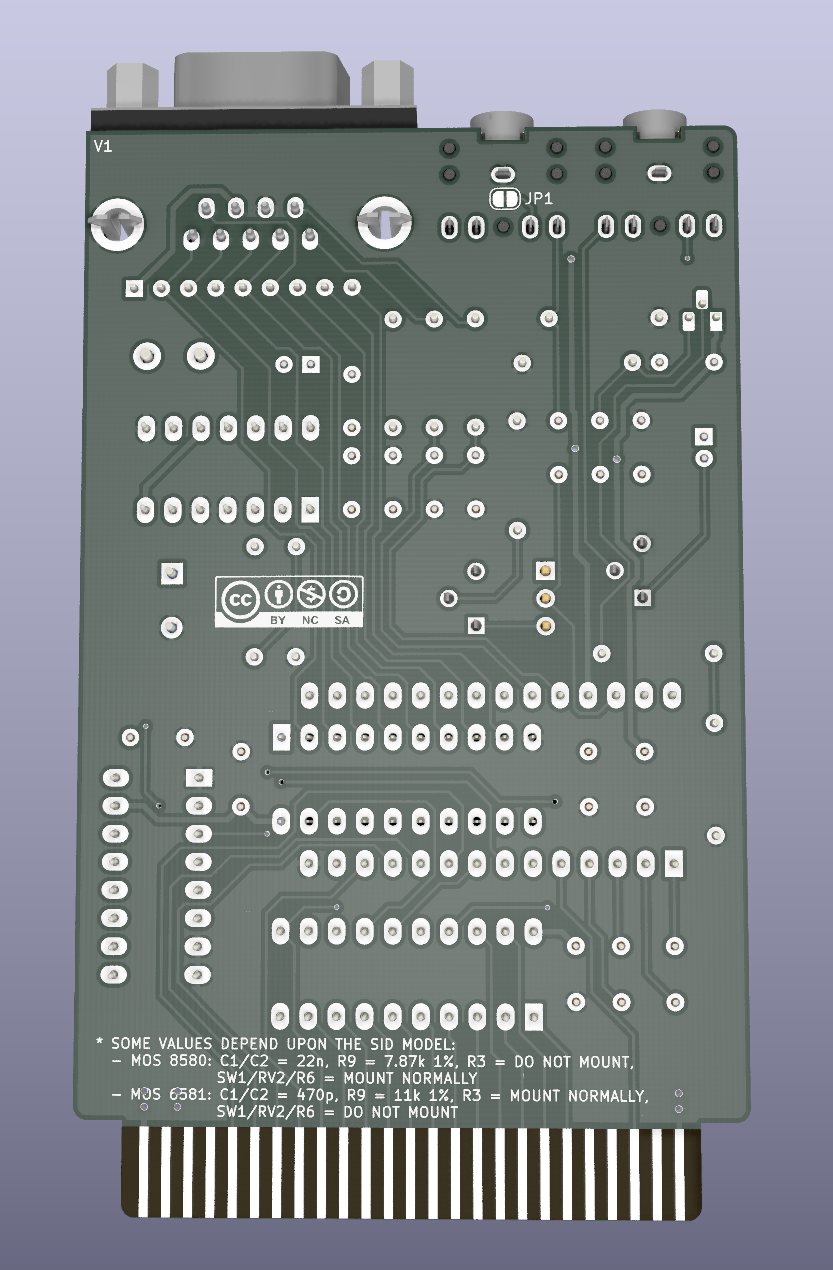
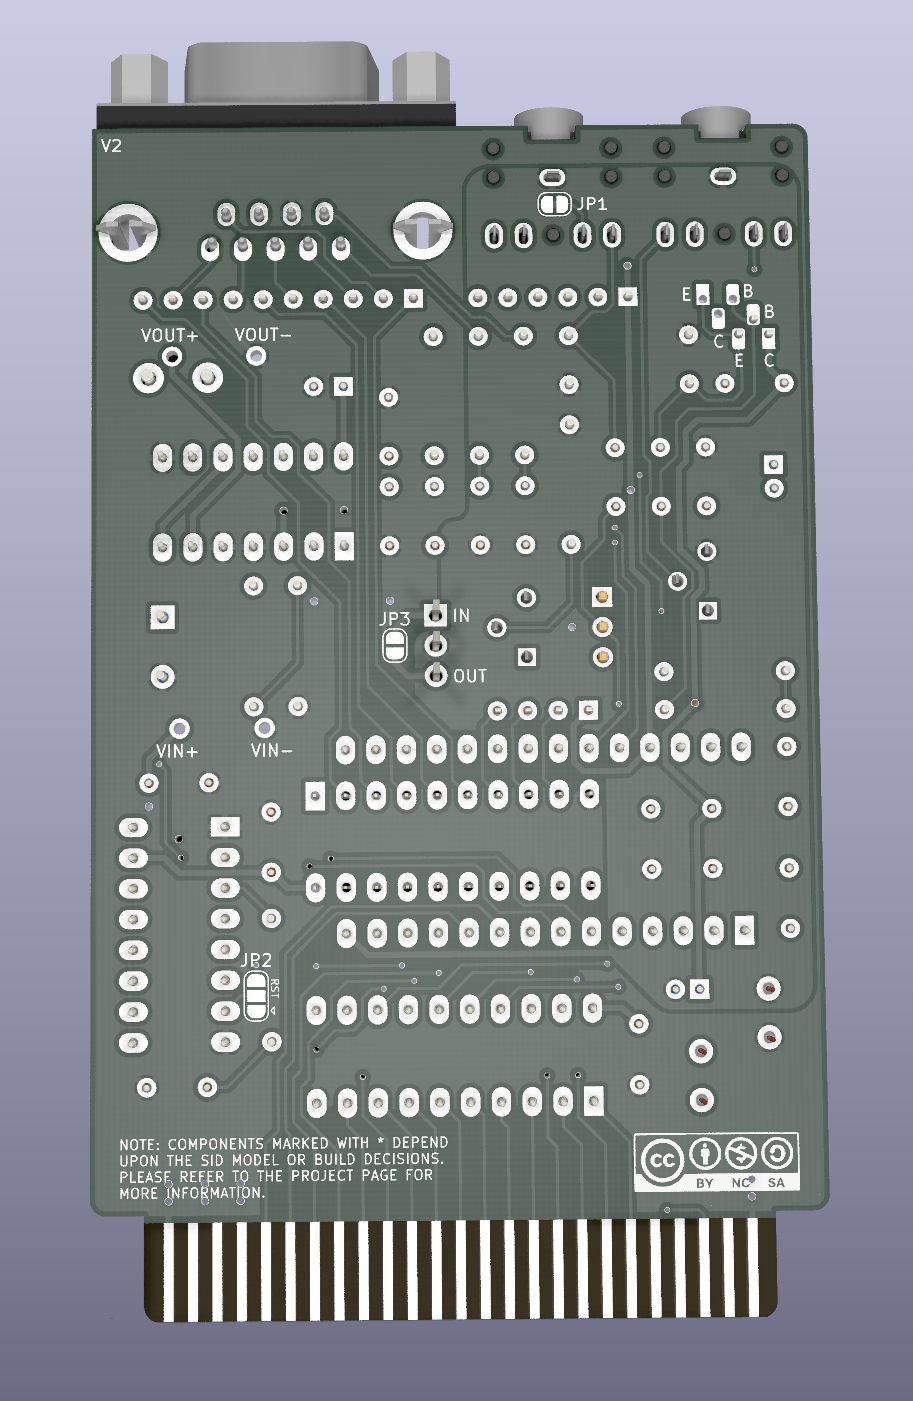
Update renders and README

Changed region(s): [[0.0624, 0.0307, 0.9052, 0.9827]]

diff --git a/README.md b/README.md
@@ -58,7 +58,7 @@ This documentation is distributed *as is* and WITHOUT ANY EXPRESS OR IMPLIED WAR
 ## Support the Project
 If you want to get some boards manufactured, you can get them from PCBWay through this link:
 
-[![PCB from PCBWay](https://www.pcbway.com/project/img/images/frompcbway.png)](https://www.pcbway.com/project/shareproject/ReSeed_SIDcard_for_the_Commodore_16_Plus_4_c4967b6f.html)
+[![PCB from PCBWay](https://www.pcbway.com/project/img/images/frompcbway.png)](https://www.pcbway.com/project/shareproject/ReSeed_v2_SIDcard_for_the_Commodore_16_Plus_4_32f442ec.html)
 
 You get my gratitude and cheap, professionally-made and good quality PCBs, I get some credit that will help with this and [other projects](https://www.pcbway.com/project/member/shareproject/?bmbid=41100). You won't even have to worry about the various PCB options, it's all pre-configured for you!
 
